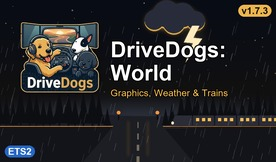
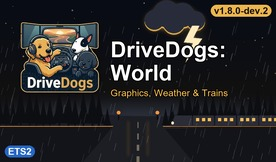
build world 1.8.0-dev.2: garage doors play Sound Fixes Pack's door sound, SFP needed below World
harvest_edits.py gains SFP_PICKS: Sound Fixes Pack lines World carries onto the base game (inlined includes, applied after Lengths and Cip, sounds validated soundref -> bank -> event). The only pick is the four garage-door units' sounds[] in semaphore_model.sii. World ships none of SFP's files; SFP 26.80 is a megapack.yaml reference. Train and crossing sounds stay Cip's. ADR-0001 decision 6.

Changed region(s): [[0.7536, 0.0, 0.9855, 0.1235]]

diff --git a/tools/harvest_edits.py b/tools/harvest_edits.py
@@ -7,18 +7,22 @@ Generates world/edits.yaml: the train and level-crossing edits World applies to 
                                       carries (max_speed, engine_power, vehicle_mass, cargo_mass; these come
                                       from Sound Fixes Pack 26.66, which it was built on)
   Real Train Sounds (Cip) 2439106226  per-train sound_move/sound_horn, max_speed, crossing sounds[]
+  Sound Fixes Pack 648591060          only the picks in SFP_PICKS (today the garage-door sounds). World ships
+                                      none of SFP's files, so these lines play from SFP itself, which must load
+                                      below World (ADR-0001 decision 6)
 
 Only attributes listed in CARRY are taken, and only on units that exist in the base game, so units the base
 game added since a mod was made (e.g. 1.61's traffic.frt.nl) keep their vanilla values instead of being
 dropped. Lengths' sound lines and @includes (Sound Fixes Pack's) are not carried. Cip's edits are applied
-after Lengths', so on a unit both change, Cip's max_speed wins.
+after Lengths', so on a unit both change, Cip's max_speed wins. SFP's picks are applied last.
 
 Every carried value is checked: trailer_chains tokens must name a base-game trailer or trailer type, and every
-`bank#event` must be an event of a bank Cip ships. Any failure aborts without writing.
+`bank#event` must be an event of a bank Cip ships, and every sound a pick sets must resolve (soundref -> bank ->
+event) in SFP or the base game. Any failure aborts without writing.
 
 usage: python tools/harvest_edits.py [--check]    (--check: fail if world/edits.yaml would change)
 Inputs are read from the extracted-reference root of this host (profile host file), at the versions in
-megapack.yaml (base_game, references) and sources.yaml (Cip).
+megapack.yaml (base_game, references: Lengths, SFP) and sources.yaml (Cip).
 """
 from __future__ import annotations
 
@@ -36,7 +40,7 @@ from megapack import base_dir as base_ref_dir, reference_root, repo_game  # noqa
 from siiedit import SiiFile  # noqa: E402
 
 OUT = ROOT / "world" / "edits.yaml"
-LENGTHS_ID, CIP_ID = 3209674677, 2439106226
+LENGTHS_ID, CIP_ID, SFP_ID = 3209674677, 2439106226, 648591060
 
 CARRY = {
     "lengths": ["trailer_chains[]", "lod_dist[]", "max_speed", "engine_power", "vehicle_mass", "cargo_mass"],
@@ -50,9 +54,18 @@ RETARGET = {
     "def/vehicle/ai/locomotive_e_405.sui": ("def/vehicle/ai/train_e_405_locomotive.sui",
                                            {"traffic.fs_e_405": "traffic.fs_e_405.it"}),
 }
+# Sound Fixes Pack lines World takes: (file, unit pattern, keys). SFP's values (its @includes inlined) replace the
+# base game's on every matching unit; a key SFP drops is unset. A pick that matches no unit is an error.
+SFP_PICKS = [
+    # garage doors: SFP's door sound instead of the game's iron gate
+    ("def/world/semaphore_model.sii", r"tr_sem_mdl\.(garage_sc|g_exp_door|g_mid_door|g_poor_door)", ["sounds[]"]),
+]
 SII_SUFFIXES = {".sii", ".sui"}
 NUM = re.compile(r"^-?\d+(\.\d+)?$")
 BANK_REF = re.compile(r'"/?(sound/[^"#]+\.bank)#([^"]+)"')
+INCLUDE = re.compile(r'^\s*@include\s+"([^"]+)"', re.M)
+SOUND_PATH = re.compile(r'/[\w./\-]+?\.(?:soundref|bank)(?:#[^"|\s]+)?')
+SOURCE = re.compile(r'source\s*=\s*"([^"]+)"')
 
 
 def canon(v: str) -> str:
@@ -64,20 +77,47 @@ def values(f: SiiFile, unit: str, key: str) -> list[str]:
     return [v for _, k, v in f.units[unit].attrs if k == key]
 
 
-def paths() -> tuple[pathlib.Path, pathlib.Path, pathlib.Path]:
+def paths() -> tuple[pathlib.Path, pathlib.Path, pathlib.Path, pathlib.Path]:
     ref_root = reference_root(repo_game(ROOT))
     mp = yaml.safe_load((ROOT / "megapack.yaml").read_text(encoding="utf-8"))
     src = yaml.safe_load((ROOT / "sources.yaml").read_text(encoding="utf-8"))
     base = base_ref_dir(ref_root, mp["base_game"]["version"])
     lver = next(str(r["version"]) for r in mp["references"] if r["workshop"] == LENGTHS_ID)
+    sver = next(str(r["version"]) for r in mp["references"] if r["workshop"] == SFP_ID)
     cver = next(str(s["version"]) for s in src["sources"] if s.get("workshop") == CIP_ID)
     # Train Lengths keeps its content under base/ inside the package (the game mounts that folder).
     lengths = ref_root / "workshop" / str(LENGTHS_ID) / lver / "base"
     cip = ref_root / "workshop" / str(CIP_ID) / cver
-    for p in (base, lengths, cip):
+    sfp = ref_root / "workshop" / str(SFP_ID) / sver
+    for p in (base, lengths, cip, sfp):
         if not p.is_dir():
             sys.exit(f"missing extraction {p} — run extract-reference first")
-    return base, lengths, cip
+    return base, lengths, cip, sfp
+
+
+def other_edits() -> dict[str, set[str]]:
+    """{file: {unit}} edited by the other base_edits files in megapack.yaml (a unit is edited in one file only)."""
+    mp = yaml.safe_load((ROOT / "megapack.yaml").read_text(encoding="utf-8"))
+    out: dict[str, set[str]] = {}
+    for rel in mp["base_edits"]["edits"]:
+        if (ROOT / rel).resolve() == OUT.resolve():
+            continue
+        for f, units in (yaml.safe_load((ROOT / rel).read_text(encoding="utf-8")) or {}).items():
+            out.setdefault(f, set()).update(units or {})
+    return out
+
+
+def inline(root: pathlib.Path, path: pathlib.Path, errors: list[str]) -> str:
+    """The file's text with each @include line replaced by the included file (relative to the including file,
+    or to the mod root when it starts with "/"), recursively."""
+    def rep(m: re.Match) -> str:
+        ref = m.group(1)
+        p = root / ref.lstrip("/") if ref.startswith("/") else path.parent / ref
+        if not p.is_file():
+            errors.append(f"{path.relative_to(root).as_posix()}: @include {ref!r} not found")
+            return ""
+        return inline(root, p, errors)
+    return INCLUDE.sub(rep, path.read_text(encoding="utf-8", errors="replace"))
 
 
 def base_catalog(base: pathlib.Path) -> set[str]:
@@ -130,11 +170,81 @@ def harvest(tag: str, base: pathlib.Path, mod: pathlib.Path, edits: dict, skippe
                 ops[key] = mv if key.endswith("[]") else mv[0]
 
 
+def harvest_sfp(base: pathlib.Path, sfp: pathlib.Path, edits: dict, shipped: dict[str, set[str]],
+                skipped: list[str], errors: list[str]) -> None:
+    """SFP_PICKS onto the base game's units, after Lengths' and Cip's edits."""
+    seen: dict[str, str | None] = {}
+    for rel, pattern, keys in SFP_PICKS:
+        if not (sfp / rel).is_file() or not (base / rel).is_file():
+            errors.append(f"sfp: {rel}: not in {'Sound Fixes Pack' if (base / rel).is_file() else 'the base game'}")
+            continue
+        b, m = SiiFile.read(base / rel), SiiFile(inline(sfp, sfp / rel, errors))
+        units = [u for u in m.order if re.fullmatch(pattern, u)]
+        if not units:
+            errors.append(f"sfp: {rel}: pick {pattern!r} matches no unit")
+        for unit in units:
+            if unit not in b.units:
+                errors.append(f"sfp: {rel}: unit {unit} not in base game")
+                continue
+            for key in keys:
+                mv, bv = values(m, unit, key), values(b, unit, key)
+                if [canon(v) for v in mv] == [canon(v) for v in bv]:
+                    skipped.append(f"sfp: {rel}: {unit} {key}: same as the base game")
+                    continue
+                if unit in shipped.get(rel, ()):
+                    errors.append(f"sfp: {rel}: {unit} is edited by another base_edits file; carry SFP's {key} there")
+                    continue
+                for v in mv:
+                    for ref in SOUND_PATH.findall(v):
+                        if why := check_sound(ref, (sfp, base), seen):
+                            errors.append(f"sfp: {rel}: {unit}: {key}: {why}")
+                ops = edits.setdefault(rel, {}).setdefault(unit, {})
+                if not mv:
+                    ops.setdefault("unset", []).append(key)
+                    ops.get("set", {}).pop(key, None)
+                    continue
+                if not key.endswith("[]") and len(mv) > 1:
+                    skipped.append(f"sfp: {rel}: {unit} {key}: {len(mv)} lines, last kept: {mv[-1]}")
+                    mv = mv[-1:]
+                ops.setdefault("set", {})[key] = mv if key.endswith("[]") else mv[0]
+
+
+def guid_events(bank: pathlib.Path) -> set[str] | None:
+    guids = bank.with_name(bank.name + ".guids")
+    if not guids.is_file():
+        return None
+    return set(re.findall(r"event:/(\S+)", guids.read_text(encoding="utf-8", errors="replace")))
+
+
+def check_sound(ref: str, roots: tuple[pathlib.Path, ...], seen: dict[str, str | None]) -> str | None:
+    """None when `/path.soundref` or `/path.bank#event` resolves in the first root that has the file, else why not."""
+    if ref in seen:
+        return seen[ref]
+    path, _, event = ref.partition("#")
+    if path.endswith(".soundref"):
+        hit = next((r / path.lstrip("/") for r in roots if (r / path.lstrip("/")).is_file()), None)
+        why = f"{path} not found"
+        if hit is not None:
+            src = SOURCE.findall(hit.read_text(encoding="utf-8-sig", errors="replace"))
+            why = f"{path} has no source" if not src else None
+            for s in src:
+                why = why or check_sound(s, roots, seen)
+    else:
+        # banks: the .bank.guids lists the events; the base game's text tier has the .guids without the .bank
+        guided = next((r / path.lstrip("/") for r in roots
+                       if (r / (path.lstrip("/") + ".guids")).is_file()), None)
+        events = guid_events(guided) if guided is not None else None
+        why = (f"{path} not found" if events is None
+               else f"event {event!r} not in {path}" if event and event not in events else None)
+    seen[ref] = why
+    return why
+
+
 def validate(edits: dict, catalog: set[str], events: dict[str, set[str]]) -> list[str]:
     errors = []
     for rel, units in edits.items():
         for unit, ops in units.items():
-            for key, v in ops["set"].items():
+            for key, v in ops.get("set", {}).items():
                 for val in (v if isinstance(v, list) else [v]):
                     # "" is a valid chain: no trailers (vanilla tractors; a locomotive running light)
                     if key == "trailer_chains[]" and val.strip('"'):
@@ -155,7 +265,8 @@ def render(edits: dict) -> str:
         "# GENERATED by tools/harvest_edits.py — do not edit by hand; change the script and rerun it.\n"
         "# Edits of base-game files (megapack base_edits), applied at build to the base game in megapack.yaml.\n"
         "# Train lengths/physics from Realistic Train Lengths 3209674677; sounds, speeds and crossing sounds\n"
-        "# from Real Train Sounds 2439106226 (Cip). See docs/adr/ADR-0001-world-megapack.md.\n")
+        "# from Real Train Sounds 2439106226 (Cip); garage-door sounds from Sound Fixes Pack 648591060 (played from\n"
+        "# SFP itself, loaded below World). See docs/adr/ADR-0001-world-megapack.md.\n")
     body = yaml.safe_dump({k: edits[k] for k in sorted(edits)}, sort_keys=False, allow_unicode=True, width=10_000)
     return head + body
 
@@ -164,12 +275,14 @@ def main() -> int:
     ap = argparse.ArgumentParser()
     ap.add_argument("--check", action="store_true")
     args = ap.parse_args()
-    base, lengths, cip = paths()
+    base, lengths, cip, sfp = paths()
     edits: dict = {}
     skipped: list[str] = []
+    errors: list[str] = []
     harvest("lengths", base, lengths, edits, skipped)
     harvest("cip", base, cip, edits, skipped)
-    errors = validate(edits, base_catalog(base), bank_events(cip))
+    harvest_sfp(base, sfp, edits, other_edits(), skipped, errors)
+    errors += validate(edits, base_catalog(base), bank_events(cip))
     for s in skipped:
         print(f"skip  {s}")
     for e in errors:

diff --git a/README.md b/README.md
@@ -25,6 +25,7 @@ Current content (v1.7.3, ETS2 1.62.1.0, checked on 1.62.3.3):
 - **People at bus stops** from d-luX's Busy Bus Stations: its people, parked bus and lamp placed on the 1.62
   bus-stop models (not its 2022 copies of them).
 - **Trains**: Realistic Train Lengths and Cip's Real Train Sounds, rebuilt on the 1.62 game files.
+- **Garage doors** play Sound Fixes Pack's door sound (played from Sound Fixes Pack itself, which loads below World).
 - **Flashing green**: the last 3 s of green on 108 standard traffic-light models become the engine's `green_trans`
   state, and their 91 models get a `flare.traffic.green.trans` locator on every green lens, built like the base game's
   own flashing-green models. World owns this timing because the engine looks semaphore models up by unit id, so it
@@ -49,7 +50,8 @@ trains), [ADR-0002](docs/adr/ADR-0002-world-graphics.md) (graphics, weather, bra
 ## Install
 
 1. Copy `output/local/drivedog_world_v<version>.scs` (one archive, ~16 GB) to `Documents/Euro Truck Simulator 2/mod/`.
-2. In the mod manager, place it **above** Sound Fixes Pack (optional), any other train sound or length mod, and
+2. In the mod manager, place it **above** Sound Fixes Pack (needed for the garage-door sound: World points at its
+   sound files), any other train sound or length mod, and
    Daniel's Random Events Mod when it is loaded on its own (its patch models are the full 20 mm bump).
 3. Disable the mods it contains (Workshop subscriptions included): Weather_3.9, Asphalt_improved, grass_4.0_lite,
    tree_improved_4k, Beautiful Nature, Beautiful Water, Realistic Rain, Realistic Rain Reflections, Realistic Rain &
@@ -60,21 +62,23 @@ trains), [ADR-0002](docs/adr/ADR-0002-world-graphics.md) (graphics, weather, bra
 4. Remove the DriveDogs Better Flares Traffic Lights add-on (`BetterFlaresAddOns/TrafficLights`, deprecated): World
    carries everything it did.
 
-Sound Fixes Pack and Better Flares stay separate mods and work with World.
+Sound Fixes Pack and Better Flares stay separate mods and work with World. Without Sound Fixes Pack, garage doors
+are silent.
 
 The lenses, the flash and the night yellow blink work on their own and take Better Flares' glow when it is loaded.
 
 ## Build
 
 Requires Python 3.10+ with the megapack skill's `scripts/requirements.txt`, Pillow and numpy, `scs_packer` on
-`PATH`, the base game extracted at the version in `megapack.yaml`, every Workshop source in `sources.yaml` extracted
-(`extract-reference`, category `workshop`, at the listed version), and Realistic Rain Reflections Standalone v1.4
+`PATH`, the base game extracted at the version in `megapack.yaml`, every Workshop source in `sources.yaml` and reference
+in `megapack.yaml` extracted (`extract-reference`, category `workshop`, at the listed version; Sound Fixes Pack with
+`--package sound`), and Realistic Rain Reflections Standalone v1.4
 (Grimes, not on the Workshop) unzipped to `<extracted root>/local/rain-reflections/1.4/`. Build with megapack 0.14
 or later: older versions leave out of the archive every image whose texture definition (`.tobj`) is the base game's,
 among them four of the blended road normal maps (`megapack check` reports `base-game .tobj added` for them).
 
 ```bash
-python tools/harvest_edits.py        # trains -> world/edits.yaml
+python tools/harvest_edits.py        # trains, crossing and garage-door sounds -> world/edits.yaml (rerun when traffic_light_timing.py changes its files)
 python tools/harvest_graphics.py     # graphics sources' game config -> world/graphics.yaml
 python tools/harvest_brands.py       # Real companies & gas stations' names/paint jobs -> world/brands.yaml, world/units/
 python tools/night_climate.py        # rain mix + night and dawn/dusk rain limits -> world/climate.yaml
@@ -108,7 +112,8 @@ asphalt-patch models and the patched source models in `overrides/` are git-ignor
 | Source update (Steam re-sync) | `megapack updates` reports it. Re-extract it at the new version, set the version in `sources.yaml`, `megapack lock` (stale `resolutions.yaml` entries need review), rerun the tools, `check_sign_defs.py` and `check_model_pairs.py`, rebuild. For Real companies, `model_variants.py` then reports patches the update made unnecessary (`no longer needed`: remove them from `world/model_variants.yaml`) and fails on new mismatches; revisit its look choices. |
 | Rain Reflections update | Unzip it to a new `local/rain-reflections/<version>/`, set `RRR_VERSION` in `tools/rain_reflections.py`, rerun it, rebuild. |
 | Bus-stop people (2893480838) update | Extract it with `extract-reference` to `workshop/2893480838/<version>/`, set `MOD_VERSION` in `tools/bus_stop_people.py`, rerun it, compare its definitions with `world/units/`, rebuild. |
-| Sound Fixes Pack / Better Flares update | Nothing. World does not use their files. |
+| Sound Fixes Pack update | `megapack updates` reports it. Extract it to `workshop/648591060/<version>/` with `--package sound`, set its version in `megapack.yaml` `references`, rerun `harvest_edits.py` (it fails on a picked sound that no longer resolves), rebuild. |
+| Better Flares update | Nothing. World does not use its files. |
 | Patch bump height | Set `HEIGHTS` in `tools/patch_bump.py`, rerun it, rebuild. Daniel's Random Events updates need nothing: World uses the base game's models, not his files. |
 | Flash length or targets change | Set `FLASH_SECONDS` (or the model rules) in `tools/traffic_light_timing.py`, rerun it, then `tools/traffic_light_locators.py`, rebuild. |
 
@@ -116,7 +121,7 @@ asphalt-patch models and the patched source models in `overrides/` are git-ignor
 
 | Path | Purpose |
 |---|---|
-| `megapack.yaml` | package identity, base game version, base-edit files, `references:` (Realistic Train Lengths, Busy Bus Stations), one-archive cap |
+| `megapack.yaml` | package identity, base game version, base-edit files, `references:` (Realistic Train Lengths, Sound Fixes Pack, Busy Bus Stations), one-archive cap |
 | `sources.yaml` | the 17 merged sources: layers, overrides, excludes (DBM's sign atlas/frame definitions must match the textures that win, see its comment) |
 | `resolutions.yaml` | per-path collision decisions (partly written by `rain_reflections.py` and `model_variants.py`) |
 | `world/*.yaml` | base-game edits: generated by the tools, except `environment.yaml` |

diff --git a/docs/adr/ADR-0001-world-megapack.md b/docs/adr/ADR-0001-world-megapack.md
@@ -2,6 +2,8 @@
 
 - Status: accepted
 - Date: 2026-09-28
+- Amended: 2026-11-25 (1.8.0: decision 6 makes SFP a required companion below World; it supersedes "SFP is
+  optional" in decision 2)
 
 ## Context
 
@@ -50,12 +52,30 @@
    - It fails if a chain token names no base-game trailer or trailer type, or if a sound event is not in the
      Cip bank it names.
    - Only units that exist in the base game are edited. Units the game adds later keep vanilla values.
+6. **SFP is required below World, and World takes picked SFP lines (1.8.0).**
+   - Why: World ships whole copies of 56 train/crossing definition files, so SFP's copies of them never load.
+     The maintainer reviewed what that hides (brains report `2026-11-24-sfp-conflicts`) and picks what World
+     takes, one item at a time. Train and crossing sounds stay Cip's (a build that switched them to SFP's,
+     1.8.0-dev.1, was dropped before playtesting).
+   - Picks today: the garage-door `sounds[]` on `tr_sem_mdl.garage_sc`, `g_exp_door`, `g_mid_door` and
+     `g_poor_door` in `semaphore_model.sii` (World ships that file for its traffic lights and crossings).
+   - How: `harvest_edits.py` `SFP_PICKS` lists (file, unit pattern, keys). The harvest applies SFP's values with
+     its `@include`s inlined, after Lengths' and Cip's. A key SFP drops is unset. It fails on a pick that matches
+     no unit, on a unit another `base_edits` file edits, and on a sound that does not resolve
+     (soundref -> bank -> event) in SFP or the base game.
+   - World ships none of SFP's files: the picked lines point at SFP's own sound files, so SFP must load below
+     World. SFP is a `megapack.yaml` reference (`package: sound`, its 1.62 archive) so `megapack updates`
+     reports new versions.
+   - Considered: shipping SFP's banks in World so SFP stays optional. Rejected for now: World's copy would go
+     stale and override SFP's newer one when SFP updates.
 
 ## Consequences
 
 - A game update means extracting the new base, harvesting and rebuilding. Removed or renamed units fail the
   harvest or the build loudly instead of being dropped silently.
-- SFP updates never require a World rebuild. SFP users hear Cip's train sounds instead of SFP's.
+- SFP users hear Cip's train sounds instead of SFP's.
+- Since 1.8.0 (decision 6) SFP is needed below World: without it the picked sounds (garage doors) are silent. An
+  SFP update needs a re-harvest only when it renames or drops a picked sound; the harvest fails loudly then.
 - Switching to an SFP-based build later only adds SFP as a source and changes the harvest base. The repo
   layout stays the same.
 - Units only in newer game versions (e.g. 1.61's NL Flirt) get vanilla lengths until the harvest rules give
